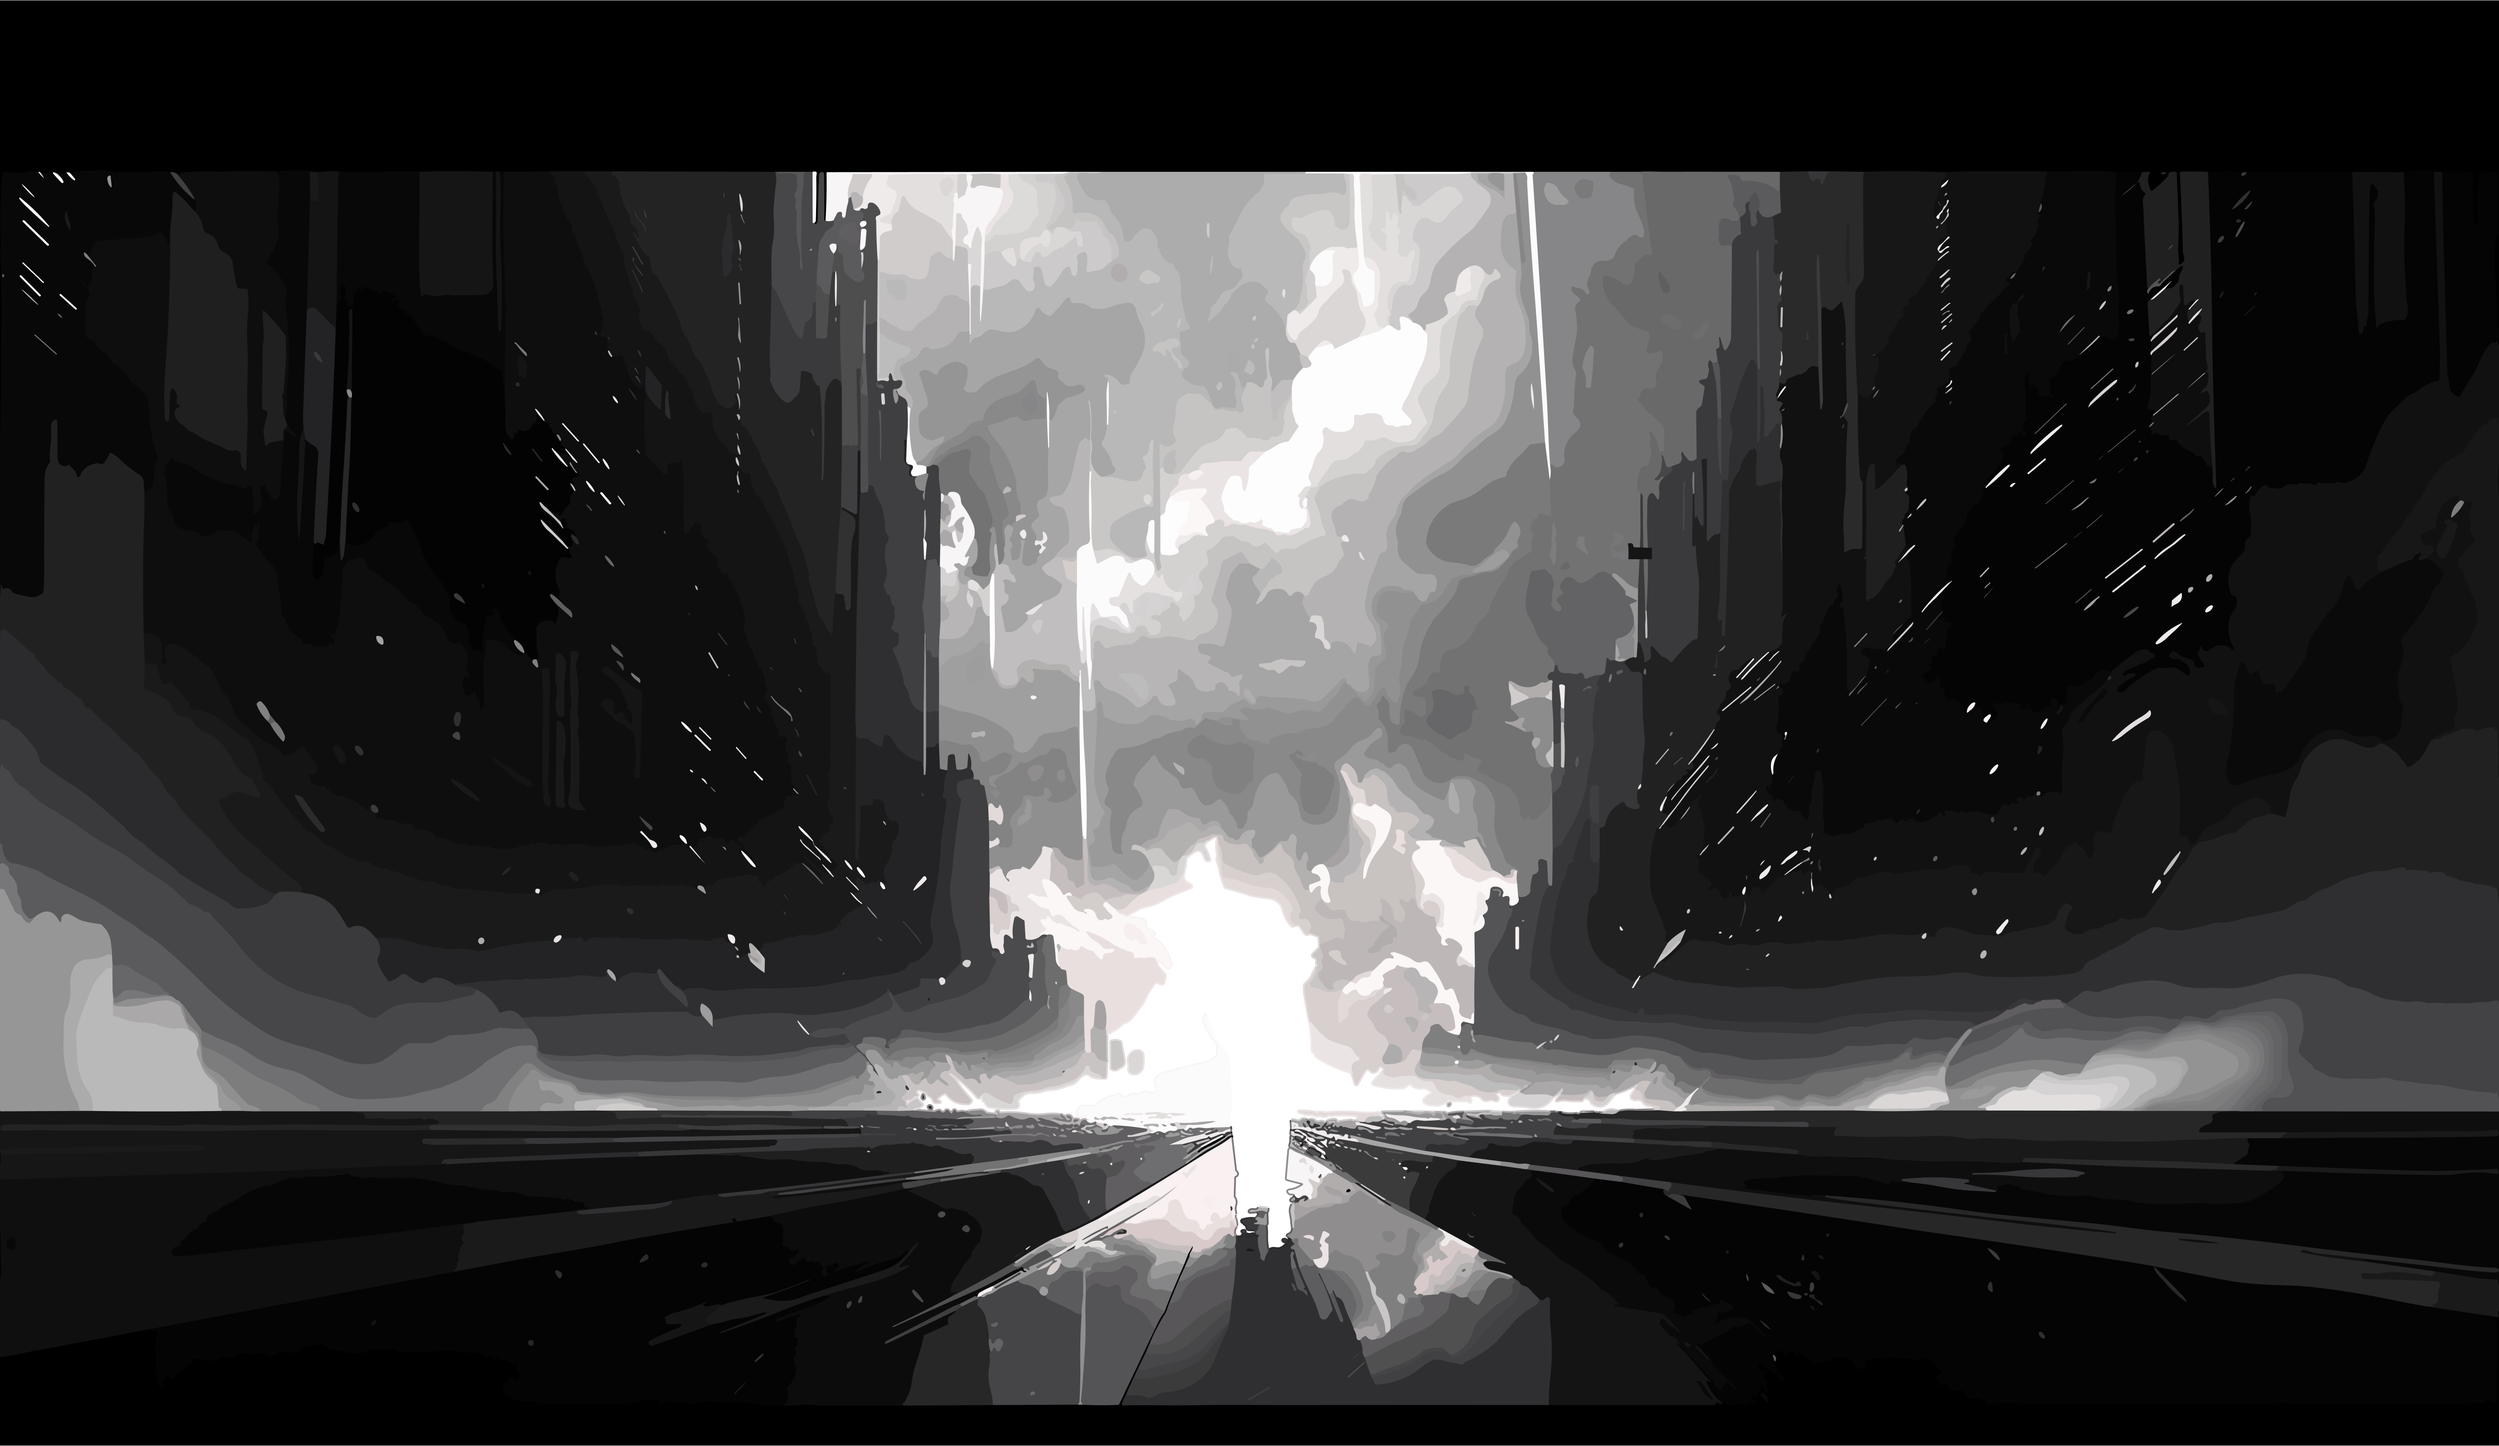
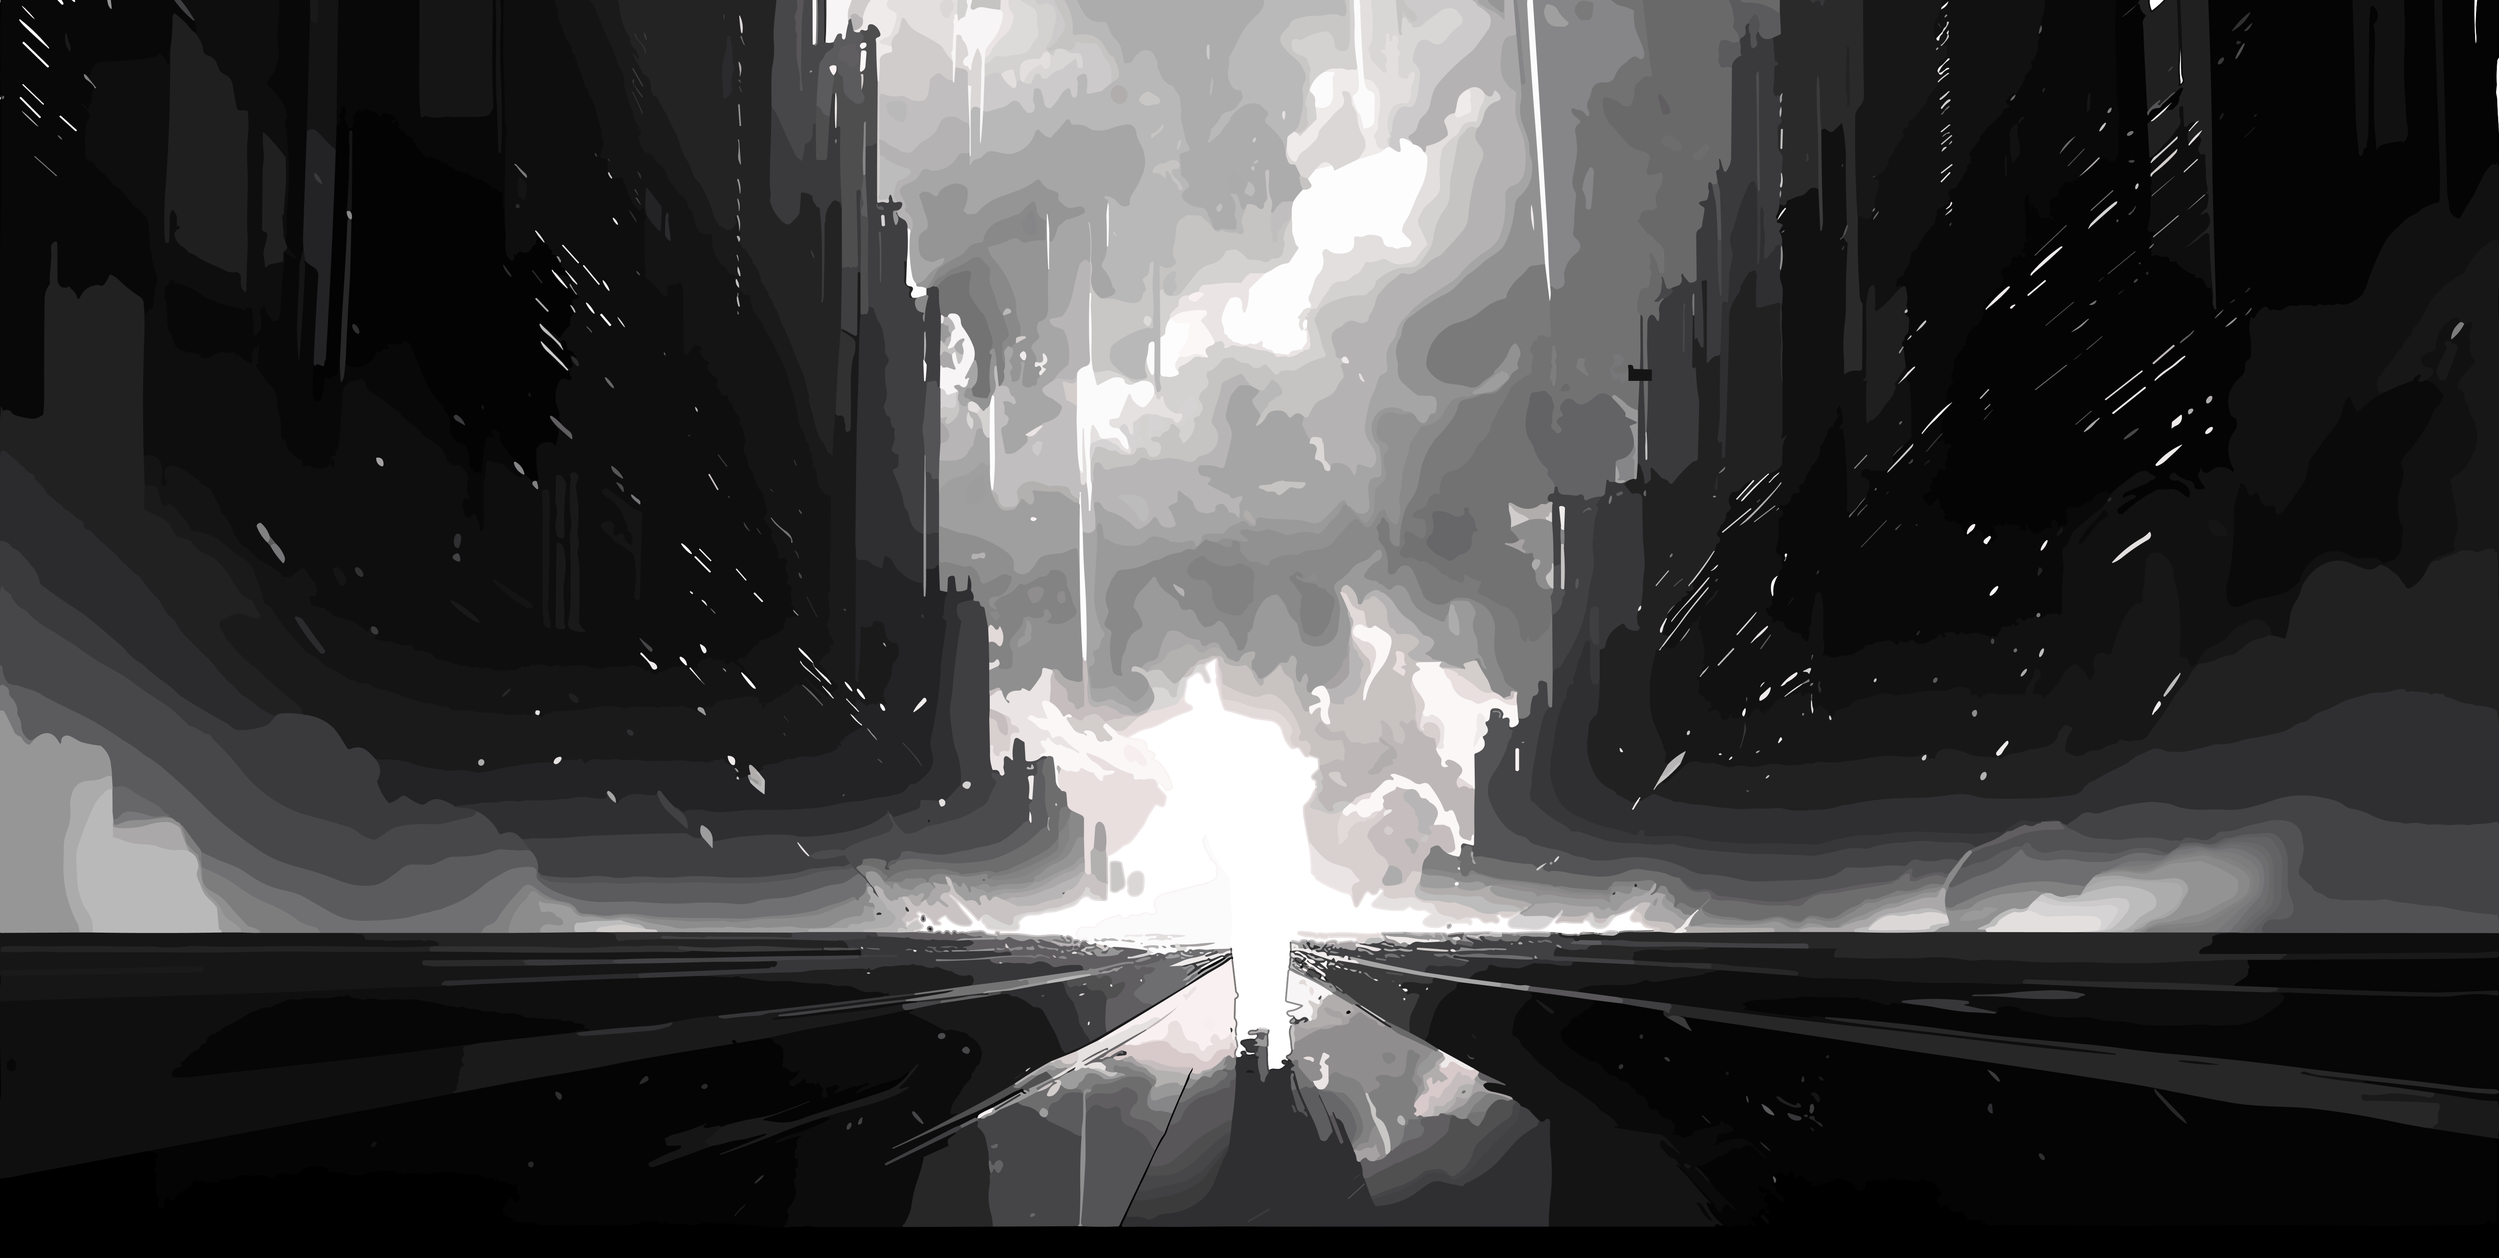
change spacing

diff --git a/index.html b/index.html
@@ -105,10 +105,12 @@ Protocol" />
         </div>
     </header>
     <section class="bg_image">
-        <div class="custom-container position-relative">
+        <div class="bg_color_black">
             <h2
                 class="heading font_Plus_Jakarta_Sans fw-bolder font_2xl leading_4xl color_white mb-0 text-center fw_800">
                 Amplify and STRETCH GAINS</h2>
+        </div>
+        <div class="custom-container position-relative">
             <p
                 class="sub_heading font_Raleway fw-normal leading_lg font_xxsm color_white mb-0 text-center mx-auto position-relative z-2">
                 We
@@ -148,9 +150,9 @@ Protocol" />
     </section>
     <!-- timeline -->
     <section class="timeline_bg timelinepy position-relative">
-        <!-- <div class="position-absolute stretch_gain_bottom_shadow">
+        <div class="position-absolute stretch_gain_bottom_shadow">
             <img src="./assets/images/png/stretch_gain_bottom_shadow.png" alt="shadow" class="w-100">
-        </div> -->
+        </div>
         <div class="custom-container">
             <h3 class="roadmap font_Neue_Machina fw-bold font_xl leading_3xl color_white mb-0 text-center ">Roadmap</h3>
             <div class="timeline">
@@ -363,38 +365,45 @@ Protocol" />
             </div>
         </div>
     </section>
-    <!-- <section class="game_theory">
+    <section class="game_theory">
         <div class="custom-container">
             <div class="d-flex">
                 <div class="d-flex align-items-center">
-                  <div>
-                    <h4 class="heading4 font_Neue_Machina font_xl leading_3xl color_white mb-0">(E,E) Game Theory: An
-                        UPGRADE From (3,3)
-                    </h4>
-                    <p class="game_theory_content font_Raleway fw-normal font_xsm leading_xl color_white mb-0 fst-italic">
-                        Remember (3,3) at
-                        its core was about social coordination. Or, people working together to achieve a common outcome
-                        or
-                        goal. (E,E) is the same. But with (E,E) people are working together not to grow a robust
-                        treasury that would back a
-                        decentralized stablecoin but instead to establish the first ever decentralized amplified yield
-                        token… $EEFI. A token
-                        that can produce yield in any market condition.</p>
-                    <p class="game_theory_content2 font_Raleway fw-normal font_xsm leading_xl color_white mb-0 fst-italic">
-                        To achieve this
-                        (E,E) has everyone work together by interacting with and supporting its ecosystem flywheel:
-                        Vaults,
-                        Bonds, Markets and other components. Interaction with the (E,E) Flywheel will help build a
-                        treasury of what we term
-                        high
-                        quality “growth assets”. Assets that are revenue bearing, interest bearing, Real Yield bearing
-                        or Rebase bearing.
-                        Where
-                        the ‘growth’ aka the yields of these assets are used to act as long term decentralized leverage
-                        on EEFI’s value.
-                        This is
-                        (E,E). This is sustainable. This is the UPGRADE.</p>
-                  </div>
+                    <div>
+                        <h4 class="heading4 font_Neue_Machina font_xl leading_3xl color_white mb-0">(E,E) Game Theory:
+                            An
+                            UPGRADE From (3,3)
+                        </h4>
+                        <p
+                            class="game_theory_content font_Raleway fw-normal font_xsm leading_xl color_white mb-0 fst-italic">
+                            Remember (3,3) at
+                            its core was about social coordination. Or, people working together to achieve a common
+                            outcome
+                            or
+                            goal. (E,E) is the same. But with (E,E) people are working together not to grow a robust
+                            treasury that would back a
+                            decentralized stablecoin but instead to establish the first ever decentralized amplified
+                            yield
+                            token… $EEFI. A token
+                            that can produce yield in any market condition.</p>
+                        <p
+                            class="game_theory_content2 font_Raleway fw-normal font_xsm leading_xl color_white mb-0 fst-italic">
+                            To achieve this
+                            (E,E) has everyone work together by interacting with and supporting its ecosystem flywheel:
+                            Vaults,
+                            Bonds, Markets and other components. Interaction with the (E,E) Flywheel will help build a
+                            treasury of what we term
+                            high
+                            quality “growth assets”. Assets that are revenue bearing, interest bearing, Real Yield
+                            bearing
+                            or Rebase bearing.
+                            Where
+                            the ‘growth’ aka the yields of these assets are used to act as long term decentralized
+                            leverage
+                            on EEFI’s value.
+                            This is
+                            (E,E). This is sustainable. This is the UPGRADE.</p>
+                    </div>
                 </div>
                 <div class="position-relative">
                     <div class="mx-auto outline">
@@ -403,10 +412,11 @@ Protocol" />
                             <p class="font_Raleway fw-normal font_xxsm leading_lg color_white mb-0">(Flywheel)</p>
                         </div>
                     </div>
-                    <p class="font_Raleway fw_800 font_xxsm leading_xsm color_white mb-0 interact text-center">Interact</p>
-                    <div class="position-absolute">
+                    <p class="font_Raleway fw_800 font_xxsm leading_xsm color_white mb-0 interact text-center">Interact
+                    </p>
+                    <!-- <div class="position-absolute">
                         <img src="./assets/images/png/card_top_border.png" alt="card" class="card_top_border">
-                    </div>
+                    </div> -->
                     <div class="d-flex cards justify-content-between">
                         <div class="EEFI_bond_square text-center box_shadow bg-color-white border_radius">
                             <img src="./assets/images/svg/bond_svg.svg" alt="bond" class="EEFI_bond_svg">
@@ -454,25 +464,26 @@ Protocol" />
                     <div class="d-flex cards2 mx-auto justify-content-between">
                         <div class="yield_growth_square text-center box_shadow bg-color-white border_radius">
                             <img src="./assets/images/svg/yield_growth.svg" alt="bond" class="yield_growth_svg">
-                            <p class="yield_growth font_Neue_Machina font_xsm leading_md color_black mb-0 fw_800">Yield From Growth Assets</p>
+                            <p class="yield_growth font_Neue_Machina font_xsm leading_md color_black mb-0 fw_800">Yield
+                                From Growth Assets</p>
                         </div>
                         <div class="revenue_square text-center box_shadow bg-color-white border_radius">
                             <img src="./assets/images/svg/revenue.svg" alt="bond" class="revenue_svg">
-                            <p class="revenue font_Neue_Machina font_xsm leading_md color_black mb-0 fw_800">Fees. Revenue. Yield to Treasury</p>
+                            <p class="revenue font_Neue_Machina font_xsm leading_md color_black mb-0 fw_800">Fees.
+                                Revenue. Yield to Treasury</p>
                         </div>
                     </div>
-                    <!-- <div class="last_card d-flex justify-content-center"> -->
-    <div class="furnace_square text-center box_shadow bg-color-white border_radius mx-auto">
-        <img src="./assets/images/svg/furnace.svg" alt="bond" class="furnace_svg">
-        <p class="furnace font_Neue_Machina font_xsm leading_xl color_black mb-0 fw_800">EEFI Furnace
-        </p>
-        <p class="ohm_text font_Raleway fw-normal font_xxsm leading_lg color_black mb-0">Buy + Burn EEFI</p>
-    </div>
-    <!-- </div> -->
-    </div>
-    </div>
-    </div>
-    </section> -->
+                    <div class="furnace_square text-center box_shadow bg-color-white border_radius mx-auto">
+                        <img src="./assets/images/svg/furnace.svg" alt="bond" class="furnace_svg">
+                        <p class="furnace font_Neue_Machina font_xsm leading_xl color_black mb-0 fw_800">EEFI Furnace
+                        </p>
+                        <p class="ohm_text font_Raleway fw-normal font_xxsm leading_lg color_black mb-0">Buy + Burn EEFI
+                        </p>
+                    </div>
+                </div>
+            </div>
+        </div>
+    </section>
 
 
     <script src="https://cdn.jsdelivr.net/npm/bootstrap@5.3.3/dist/js/bootstrap.bundle.min.js"

diff --git a/assets/css/style.css b/assets/css/style.css
@@ -189,7 +189,7 @@
 }
 
 .heading {
-    padding: 28px 0 0 0;
+    padding: 28px 0 32px 0;
 }
 
 .a_man {
@@ -217,9 +217,9 @@
 .bull_bear {
     top: 183px;
 }
-.stretch_gain_bottom_shadow{
-    top: -3.5%;
-}
+        .stretch_gain_bottom_shadow {
+            top: -36%;
+        }
 
 /* ============================= timeline ======================== */
 .timeline_bg {
@@ -264,7 +264,6 @@
     position: relative;
     max-width: 880.76px;
     margin: 0 auto;
-    /* margin-top: 74px; */
 }
 
 /* The actual timeline (the vertical ruler) */
@@ -285,7 +284,6 @@
     position: relative;
     background-color: inherit;
     width: 50%;
-    margin-top: -14px;
 }
 
 /* The circles on the timeline */
@@ -365,40 +363,6 @@
 .right::after {
     left: -34px;
 }
-
-/* The actual content */
-.content {
-    position: relative;
-    border-radius: 6px;
-    padding-right: 96px;
-}
-
-.content1 {
-    position: relative;
-    border-radius: 6px;
-    padding-left: 96px;
-}
-
-.ptb {
-    padding-top: 24px;
-    padding-bottom: 35px;
-}
-
-.max-w-786 {
-    max-width: 786px;
-}
-
-.timeand {
-    padding-top: 140px;
-}
-
-.timelineshadow {
-    position: absolute;
-    top: -20%;
-    left: 0;
-    z-index: -1;
-}
-
 /* =========================== */
 .game_theory {
     background-image: url(../images/webp/game_theory_bg_image.webp);
@@ -765,6 +729,9 @@
 }
 
 @media(min-width:476px) {
+        .stretch_gain_bottom_shadow {
+                top: -46px;
+            }
     .bull_bear {
         top: 130px;
     }
@@ -783,6 +750,9 @@
 }
 
 @media(min-width:576px) {
+            .stretch_gain_bottom_shadow {
+                    top: -54px;
+                }
     .a_man {
         width: 75.72px;
     }
@@ -830,6 +800,9 @@
 }
 
 @media(min-width:768px) {
+                .stretch_gain_bottom_shadow {
+                        top: -70px;
+                    }
     .timelinepy {
             padding: 55px 0 55px 0;
         }
@@ -842,6 +815,7 @@
 
     .timeline_box {
         max-width: 306px;
+            margin-top: -25px;
     }
 
     .fav_icon {
@@ -879,6 +853,9 @@
 }
 
 @media(min-width:992px) {
+                .stretch_gain_bottom_shadow {
+                        top: -85px;
+                    }
     .container2 {
         padding-left: 65px;
     }
@@ -915,7 +892,6 @@
 
     .main_para {
         max-width: 429px;
-        padding: 0 0 26px 0;
     }
 
     .main_heading {
@@ -955,8 +931,11 @@
 }
 
 @media(min-width:1024px) {
+                .stretch_gain_bottom_shadow {
+                        top: -102px;
+                    }
     .roadmap {
-            padding: 0 0 117.83px 0px;
+            padding: 0 0 65.83px 0px;
         }
     .sub_heading {
         padding: 140px 0 5px;
@@ -990,11 +969,14 @@
 }
 
 @media(min-width:1200px) {
+        .roadmap {
+                padding: 0 0 117.83px 0px;
+            }
     .timelinepy {
             padding: 70px 0 70px 0;
         }
     .sub_heading {
-        padding: 366px 0 5px;
+        padding: 320px 0 5px;
     }
 
     .animal {
@@ -1054,11 +1036,14 @@
 }
 
 @media(min-width:1400px) {
+    .stretch_gain_bottom_shadow {
+            top: -125px;
+        }
     .timelinepy {
             padding: 150px 0 142.85px 0;
         }
     .bull {
-        transform: translate(28px, -22px);
+        transform: translate(50px, -22px);
     }
 
     .bear {

diff --git a/assets/css/root.css b/assets/css/root.css
@@ -33,6 +33,9 @@
 .bg-color-white {
     background-color: var(--color-white);
 }
+.bg_color_black {
+    background-color: var(--color-black);
+}
 /* font-size */
 .font_xxsm {
     font-size: var(--font-xxsm);
